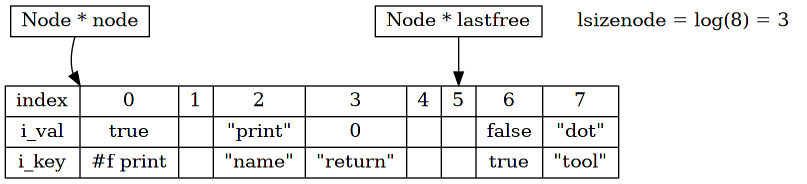
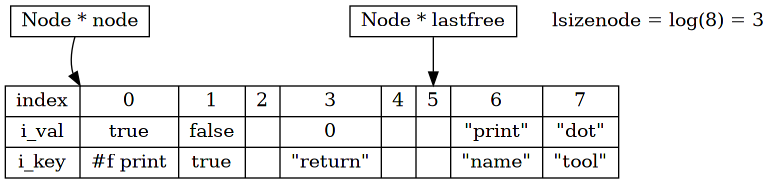
add main position section

diff --git a/docs/table.html b/docs/table.html
@@ -1,7 +1,7 @@
 <!DOCTYPE html>
 <html lang="en">
 <head>
-<!-- 2020-12-30 三 18:08 -->
+<!-- 2020-12-31 四 11:45 -->
 <meta charset="utf-8">
 <meta name="viewport" content="width=device-width, initial-scale=1">
 <title>table</title>
@@ -329,7 +329,7 @@ metatable 相关
 </div>
 
 
-<div id="org003d4b8" class="figure">
+<div id="org2477f01" class="figure">
 <p><img src="table-node.png" alt="table-node.png">
 </p>
 <p><span class="figure-number">Figure 1: </span>Node &amp; TKey</p>
@@ -360,15 +360,15 @@ dict 表示的是多个 kv 的集合，在 table 内部，所有 kv 经过相应
 <pre class="src src-lua"><span class="org-keyword">local</span> <span class="org-variable-name">t</span> = {}
 
 t[<span class="org-builtin">print</span>] = <span class="org-constant">true</span>
-t[<span class="org-string">"name"</span>] = <span class="org-string">"print"</span>
-t[<span class="org-string">"return"</span>] = 0
 t[<span class="org-constant">true</span>] = <span class="org-constant">false</span>
+t[<span class="org-string">"return"</span>] = 0
+t[<span class="org-string">"name"</span>] = <span class="org-string">"print"</span>
 t[<span class="org-string">"tool"</span>] = <span class="org-string">"dot"</span>
 </pre>
 </div>
 
 
-<div id="org7d32d28" class="figure">
+<div id="orgb297ed7" class="figure">
 <p><img src="table-dict.png" alt="table-dict.png">
 </p>
 <p><span class="figure-number">Figure 2: </span>kv stored in Node array</p>
@@ -392,12 +392,204 @@ t[<span class="org-string">"tool"</span>] = <span class="org-string">"dot"</span
 <span class="linenr">18: </span><span class="org-preprocessor">#define</span> <span class="org-function-name">key2tval</span>(<span class="org-variable-name">n</span>)     (&amp;(n)-&gt;i_key.tvk)
 </pre>
 </div>
+
+<div class="org-src-container">
+<label class="org-src-name"><span class="listing-number">Listing 2: </span>lobject.h</label><pre class="src src-c"><span class="linenr">352: </span><span class="org-comment-delimiter">/*</span>
+<span class="linenr">353: </span><span class="org-comment">** `module' operation for hashing (size is always a power of 2)</span>
+<span class="linenr">354: </span><span class="org-comment-delimiter">*/</span>
+<span class="linenr">355: </span><span class="org-preprocessor">#define</span> <span class="org-function-name">lmod</span>(<span class="org-variable-name">s</span>,<span class="org-variable-name">size</span>) \
+<span class="linenr">356: </span>        (check_exp((size&amp;(size-1))==0, (cast(<span class="org-type">int</span>, (s) &amp; ((size)-1)))))
+<span class="linenr">357: </span>
+<span class="linenr">358: </span>
+<span class="linenr">359: </span><span class="org-preprocessor">#define</span> <span class="org-function-name">twoto</span>(<span class="org-variable-name">x</span>)        (1&lt;&lt;(x))
+<span class="linenr">360: </span><span class="org-preprocessor">#define</span> <span class="org-function-name">sizenode</span>(<span class="org-variable-name">t</span>)     (twoto((t)-&gt;lsizenode))
+</pre>
+</div>
+</div>
+
+<div id="outline-container-org7b365a9" class="outline-3">
+<h3 id="org7b365a9"><span class="section-number-3">2.1</span> main position</h3>
+<div class="outline-text-3" id="text-2-1">
+<p>
+table 内部使用精妙的结构来存储 kv，其中关键的概念是 main position。
+</p>
+
+<p>
+因为 k 可以是任意类型的值，在存储 kv 之前，必须先确定将其安排在什么位置，
+这个位置就是 kv 的 main position。
+</p>
+
+<p>
+计算的方式并不陌生，先计算 k 的 hash 值，再模除 node 数组长度，得到 main position。
+</p>
+
+<p>
+前面提到，k 可以是 nil 之外任意类型的值，所以在计算 main position 的时候，
+针对不同的类型有不同的计算方式。
+</p>
+
+<div class="org-src-container">
+<label class="org-src-name"><span class="listing-number">Listing 3: </span>ltable.c</label><pre class="src src-C"><span class="linenr"> 96: </span><span class="org-comment-delimiter">/*</span>
+<span class="linenr"> 97: </span><span class="org-comment">** returns the `main' position of an element in a table (that is, the index</span>
+<span class="linenr"> 98: </span><span class="org-comment">** of its hash value)</span>
+<span class="linenr"> 99: </span><span class="org-comment-delimiter">*/</span>
+<span class="linenr">100: </span><span class="org-keyword">static</span> <span class="org-type">Node</span> *<span class="org-function-name">mainposition</span> (<span class="org-keyword">const</span> <span class="org-type">Table</span> *<span class="org-variable-name">t</span>, <span class="org-keyword">const</span> <span class="org-type">TValue</span> *<span class="org-variable-name">key</span>) {
+<span class="linenr">101: </span>  <span class="org-keyword">switch</span> (ttype(key)) {
+<span class="linenr">102: </span>    <span class="org-keyword">case</span> LUA_TNUMBER:
+<span class="linenr">103: </span>      <span class="org-keyword">return</span> hashnum(t, nvalue(key));
+<span class="linenr">104: </span>    <span class="org-keyword">case</span> LUA_TSTRING:
+<span class="linenr">105: </span>      <span class="org-keyword">return</span> hashstr(t, rawtsvalue(key));
+<span class="linenr">106: </span>    <span class="org-keyword">case</span> LUA_TBOOLEAN:
+<span class="linenr">107: </span>      <span class="org-keyword">return</span> hashboolean(t, bvalue(key));
+<span class="linenr">108: </span>    <span class="org-keyword">case</span> LUA_TLIGHTUSERDATA:
+<span class="linenr">109: </span>      <span class="org-keyword">return</span> hashpointer(t, pvalue(key));
+<span class="linenr">110: </span>    <span class="org-keyword">default</span>:
+<span class="linenr">111: </span>      <span class="org-keyword">return</span> hashpointer(t, gcvalue(key));
+<span class="linenr">112: </span>  }
+<span class="linenr">113: </span>}
+</pre>
+</div>
+
+<p>
+针对不同类型详细来看，
+</p>
+
+<div class="org-src-container">
+<pre class="src src-C"><span class="linenr">50: </span><span class="org-preprocessor">#define</span> <span class="org-function-name">hashpow2</span>(<span class="org-variable-name">t</span>,<span class="org-variable-name">n</span>)      (gnode(t, lmod((n), sizenode(t))))
+<span class="linenr">51: </span>
+<span class="linenr">52: </span><span class="org-preprocessor">#define</span> <span class="org-function-name">hashstr</span>(<span class="org-variable-name">t</span>,<span class="org-variable-name">str</span>)  hashpow2(t, (str)-&gt;tsv.hash)
+<span class="linenr">53: </span><span class="org-preprocessor">#define</span> <span class="org-function-name">hashboolean</span>(<span class="org-variable-name">t</span>,<span class="org-variable-name">p</span>)        hashpow2(t, p)
+<span class="linenr">54: </span>
+<span class="linenr">55: </span>
+<span class="linenr">56: </span><span class="org-comment-delimiter">/*</span>
+<span class="linenr">57: </span><span class="org-comment">** for some types, it is better to avoid modulus by power of 2, as</span>
+<span class="linenr">58: </span><span class="org-comment">** they tend to have many 2 factors.</span>
+<span class="linenr">59: </span><span class="org-comment-delimiter">*/</span>
+<span class="linenr">60: </span><span class="org-preprocessor">#define</span> <span class="org-function-name">hashmod</span>(<span class="org-variable-name">t</span>,<span class="org-variable-name">n</span>)    (gnode(t, ((n) % ((sizenode(t)-1)|1))))
+<span class="linenr">61: </span>
+<span class="linenr">62: </span>
+<span class="linenr">63: </span><span class="org-preprocessor">#define</span> <span class="org-function-name">hashpointer</span>(<span class="org-variable-name">t</span>,<span class="org-variable-name">p</span>)        hashmod(t, IntPoint(p))
+</pre>
+</div>
+</div>
+
+<div id="outline-container-org0d5bb01" class="outline-4">
+<h4 id="org0d5bb01"><span class="section-number-4">2.1.1</span> string</h4>
+<div class="outline-text-4" id="text-2-1-1">
+<p>
+string 比较简单，依旧使用自身的 hash，再模除 node size 得到 main position。
+</p>
+</div>
+</div>
+
+<div id="outline-container-orgf4c1ad1" class="outline-4">
+<h4 id="orgf4c1ad1"><span class="section-number-4">2.1.2</span> bool</h4>
+<div class="outline-text-4" id="text-2-1-2">
+<p>
+bool 类型更简单，直接锁定了 main position 的 0 1 位置。
+</p>
+</div>
+</div>
+
+<div id="outline-container-org1667bda" class="outline-4">
+<h4 id="org1667bda"><span class="section-number-4">2.1.3</span> light userdata</h4>
+<div class="outline-text-4" id="text-2-1-3">
+<p>
+对于 light userdata，强制将 pointer 地址解析为 unsigned int 作为 hash 值，
+模除 node size - 1 得到 main position。
+</p>
+
+<p>
+因为地址一般按照 2 的幂对齐，而且 node size 也是 2 的幂，直接模除不容易将值分散开来，
+所以就使用 node size - 1。
+</p>
+
+<p>
+hashmod 末尾的 <code>| 1</code> 是避免出现 mod 0 的情况。
+</p>
+</div>
+</div>
+
+<div id="outline-container-org6b13dfc" class="outline-4">
+<h4 id="org6b13dfc"><span class="section-number-4">2.1.4</span> GCObject</h4>
+<div class="outline-text-4" id="text-2-1-4">
+<p>
+同 light userdata，进行指针运算。
+</p>
+</div>
+</div>
+
+<div id="outline-container-org66ef2b6" class="outline-4">
+<h4 id="org66ef2b6"><span class="section-number-4">2.1.5</span> number</h4>
+<div class="outline-text-4" id="text-2-1-5">
+<div class="org-src-container">
+<pre class="src src-C"><span class="linenr">66: </span><span class="org-comment-delimiter">/*</span>
+<span class="linenr">67: </span><span class="org-comment">** number of ints inside a lua_Number</span>
+<span class="linenr">68: </span><span class="org-comment-delimiter">*/</span>
+<span class="linenr">69: </span><span class="org-preprocessor">#define</span> <span class="org-variable-name">numints</span>         cast_int(<span class="org-keyword">sizeof</span>(lua_Number)/<span class="org-keyword">sizeof</span>(<span class="org-type">int</span>))
+</pre>
+</div>
+
+<div class="org-src-container">
+<pre class="src src-C"><span class="linenr">81: </span><span class="org-comment-delimiter">/*</span>
+<span class="linenr">82: </span><span class="org-comment">** hash for lua_Numbers</span>
+<span class="linenr">83: </span><span class="org-comment-delimiter">*/</span>
+<span class="linenr">84: </span><span class="org-keyword">static</span> <span class="org-type">Node</span> *<span class="org-function-name">hashnum</span> (<span class="org-keyword">const</span> <span class="org-type">Table</span> *<span class="org-variable-name">t</span>, <span class="org-type">lua_Number</span> <span class="org-variable-name">n</span>) {
+<span class="linenr">85: </span>  <span class="org-type">unsigned</span> <span class="org-type">int</span> <span class="org-variable-name">a</span>[numints];
+<span class="linenr">86: </span>  <span class="org-type">int</span> <span class="org-variable-name">i</span>;
+<span id="coderef-neg0" class="coderef-off"><span class="linenr">87: </span>  <span class="org-keyword">if</span> (luai_numeq(n, 0))  <span class="org-comment-delimiter">/* </span><span class="org-comment">avoid problems with -0</span><span class="org-comment-delimiter"> */</span></span>
+<span class="linenr">88: </span>    <span class="org-keyword">return</span> gnode(t, 0);
+<span class="linenr">89: </span>  memcpy(a, &amp;n, <span class="org-keyword">sizeof</span>(a));
+<span class="linenr">90: </span>  <span class="org-keyword">for</span> (i = 1; i &lt; numints; i++) a[0] += a[i];
+<span class="linenr">91: </span>  <span class="org-keyword">return</span> hashmod(t, a[0]);
+<span class="linenr">92: </span>}
+</pre>
+</div>
+
+
+<div id="orgbb842f5" class="figure">
+<p><img src="table-number-hash.png" alt="table-number-hash.png">
+</p>
+</div>
+
+
+<p>
+<code>lua_Number</code> 默认用 double 来表示，在 32 位系统中，double 通常占用 64 位。
+从二进制表示层面，将 double 分拆为 2 个 unsigned int，求和后再模除 node size - 1 得到 main position。
+</p>
+
+<p>
+这里要注意两个细节，
+</p>
+
+<p>
+一是对 <code>+0 -0</code> 做了统一处理。
+<code>+0 -0</code> 在数值角度上是相等的，但是在二进制浮点表示<sup><a id="fnr.1" class="footref" href="#fn.1">1</a></sup>上，
+存在标志位的不同，如果依旧使用分拆 unsigned int 的方式， <code>+0 -0</code> 将计算得到不同的 main position，
+这显然不是我们想要的，所以这里统一用 main position 0 来处理。
+</p>
+
+<p>
+二是在模除的过程中， <code>hashmod</code> 并非使用 node size 进行模除，而是 node size - 1，原因同上。
+</p>
 </div>
 </div>
 </div>
+</div>
+<div id="footnotes">
+<h2 class="footnotes">Footnotes: </h2>
+<div id="text-footnotes">
+
+<div class="footdef"><sup><a id="fn.1" class="footnum" href="#fnr.1">1</a></sup> <div class="footpara"><p class="footpara">
+: <a href="https://en.wikipedia.org/wiki/Double-precision_floating-point_format">https://en.wikipedia.org/wiki/Double-precision_floating-point_format</a>
+</p></div></div>
+
+
+</div>
+</div></div>
 <div id="postamble" class="status">
 
-<p>Updated: 2020-12-30 三 18:07</p>
+<p>Updated: 2020-12-31 四 11:44</p>
 <p>Created: 2020-12-30 三 11:53</p>
 <p>Contact: DreamAndDead <a href="mailto:dreamanddead@foxmail.com">dreamanddead@foxmail.com</a></p>
 </div>
